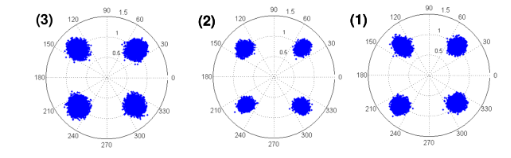
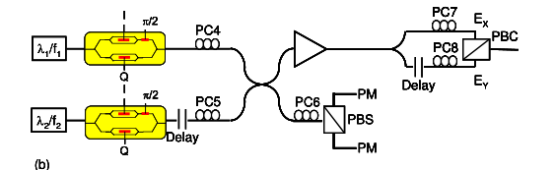
GitBook: [master] one page and 4 assets modified

diff --git a/duo-zai-bo-ji-shu-all/zi-zai-bo-ti-qu/xiang-guan-wen-xian-20218-yue/2009-zai-bo-jian-ge-bo-te-lv-cma4-bei-guo-cai-yang-+t4-jian-ge-2-bei-+t2pdmqpsk-xi-tong.md b/duo-zai-bo-ji-shu-all/zi-zai-bo-ti-qu/xiang-guan-wen-xian-20218-yue/2009-zai-bo-jian-ge-bo-te-lv-cma4-bei-guo-cai-yang-+t4-jian-ge-2-bei-+t2pdmqpsk-xi-tong.md
@@ -12,11 +12,11 @@ description: >-
 
 引言：在参考文献【3】中提到：08年提出了一个新技术，两个同步调制的载波以波特率精确地间隔开或在OFDM条件下，目的是使总信道数据速率加倍，同时实现高频谱效率。该文献使用的是两个44.4Ghzbps地PDM-QPSK系统，载波间隔为11.1Ghz。该文章提出之后，该团队又陆续提出了各种出版物，【4】——【6】，其中就有2载波13.9GBaud地载波间隔为波特率的PDM-QPSK，ADC采用速率为50Gsamples/s或过采样为4，相干干扰最小。（该团队好像不是之前研究论文的团队）。
 
-![&#x4EA7;&#x751F;&#x4E24;&#x4E2A;&#x5B50;&#x8F7D;&#x6CE2;&#x7684;&#x4E24;&#x79CD;&#x65B9;&#x6CD5;](../../../.gitbook/assets/image%20%2818%29.png)
+![&#x4EA7;&#x751F;&#x4E24;&#x4E2A;&#x5B50;&#x8F7D;&#x6CE2;&#x7684;&#x4E24;&#x79CD;&#x65B9;&#x6CD5;](../../../.gitbook/assets/image%20%2819%29.png)
 
 第一种就是对每个载波使用独立的激光发射器产生。第二种是采用频率为波特率一半的正弦波驱动，通过MZM，再经过放大，使用载波分离滤波器（CSF）将其分离，可以得到精准的f0-fc和f0+fc的频率的载波。CSF是一个25/50Ghz的de-interleaver。
 
-![&#x53CC;&#x5B50;&#x8F7D;&#x6CE2;&#x8C03;&#x5236;&#x8FC7;&#x7A0B;](../../../.gitbook/assets/image%20%2816%29.png)
+![&#x53CC;&#x5B50;&#x8F7D;&#x6CE2;&#x8C03;&#x5236;&#x8FC7;&#x7A0B;](../../../.gitbook/assets/image%20%2817%29.png)
 
 PC是偏振控制，保持两组数据是同偏振。两组数据通过放置一个光学延迟来控制延迟，再通过3dB光学耦合器进行组合。PBC将两载波QPSK重新组合来形成2载波PDM-QPSK。
 
@@ -34,7 +34,13 @@ PC是偏振控制，保持两组数据是同偏振。两组数据通过放置一
 
 上图显示了12.5GBaud两PDM-QPSK子载波分别以10Ghz，12.5Ghz和18Ghz的光谱图，**带宽终于很形象的和之前猜想的一样**。
 
-![&#x8F7D;&#x6CE2;&#x673A;&#x95F4;&#x9694;&#x6062;&#x590D;&#x56FE;](../../../.gitbook/assets/image%20%2817%29.png)
+![&#x8F7D;&#x6CE2;&#x673A;&#x95F4;&#x9694;&#x6062;&#x590D;&#x56FE;](../../../.gitbook/assets/image%20%2818%29.png)
 
-序号（3）（2）（1）分别对应10，12.5和18Ghz。
+序号（3）（2）（1）分别对应10，12.5和18Ghz。进行各种DSP之后的载波恢复星座图。
+
+第二个图效果最好恰好说明了在频谱图上其载波的干扰的零点恰好是另一个载波的峰值，即载波间隔等于波特率，串扰水平最低。在二倍过采样的情况下会出现5.5dB的Q因子损失，可能原因是抗混叠滤波不当，数模转换器之前的射频带宽（20Ghz）大于采样率的一半。
+
+![5&#x4E2A;&#x5B50;&#x8F7D;&#x6CE2;&#x60C5;&#x51B5;&#x4E0B;&#x7684;&#x8C03;&#x5236;&#x56FE;](../../../.gitbook/assets/image%20%2816%29.png)
+
+5个12.5GBaud的子载波在间隔为12.5Ghz的情况下的调制和频谱图（前面细的是只有载波，粗的是加了信号频谱了），分成了奇偶部分，
 
